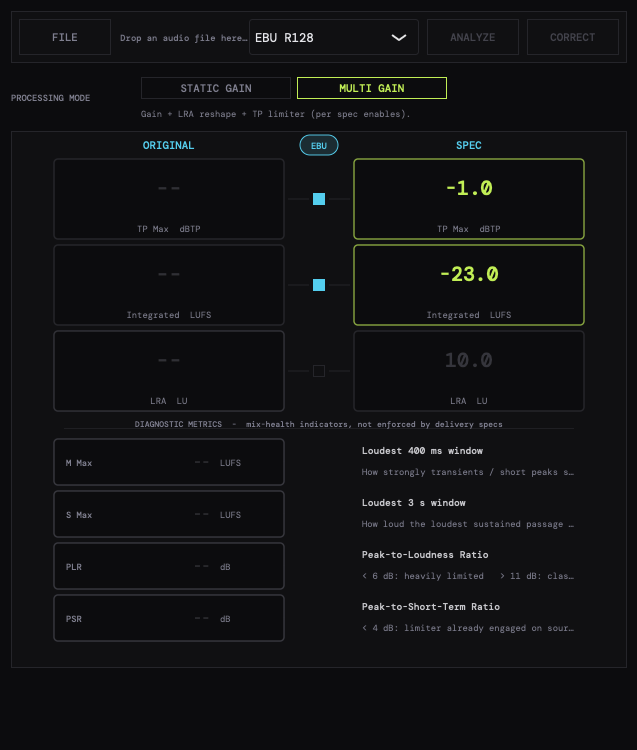
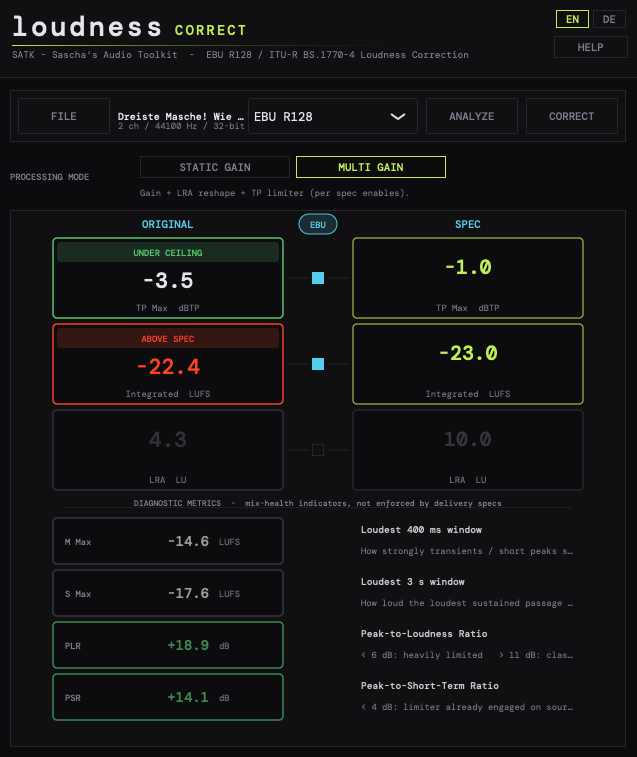
OG-image neu, Loudness Correct: neuer Screenshot mit Messwerten + max-width auf 560px

diff --git a/loudness-correct.html b/loudness-correct.html
@@ -36,8 +36,8 @@ nav{position:sticky;top:0;z-index:100;display:flex;align-items:center;justify-co
 .product-hero h1{font-family:'Syne',sans-serif;font-size:clamp(36px,5vw,64px);font-weight:800;letter-spacing:-1px;line-height:1.05;text-transform:uppercase;margin-bottom:18px}
 .product-hero .tagline{color:var(--mu2);font-size:14px;letter-spacing:.3px;line-height:1.7;max-width:640px;margin:0 auto}
 
-.hero-img-wrap{max-width:1120px;margin:32px auto 0;padding:0 32px}
-.hero-img{width:100%;border:1px solid var(--bd);border-radius:10px;display:block;box-shadow:0 30px 80px rgba(0,0,0,.5)}
+.hero-img-wrap{max-width:1120px;margin:32px auto 0;padding:0 32px;text-align:center}
+.hero-img{display:inline-block;max-width:560px;width:100%;height:auto;border:1px solid var(--bd);border-radius:10px;box-shadow:0 30px 80px rgba(0,0,0,.5)}
 
 .section{max-width:1120px;margin:0 auto;padding:96px 32px 0}
 .section-label{font-family:'Syne',sans-serif;font-size:11px;font-weight:600;letter-spacing:.3em;text-transform:uppercase;color:var(--ac);margin-bottom:16px;text-align:center}
